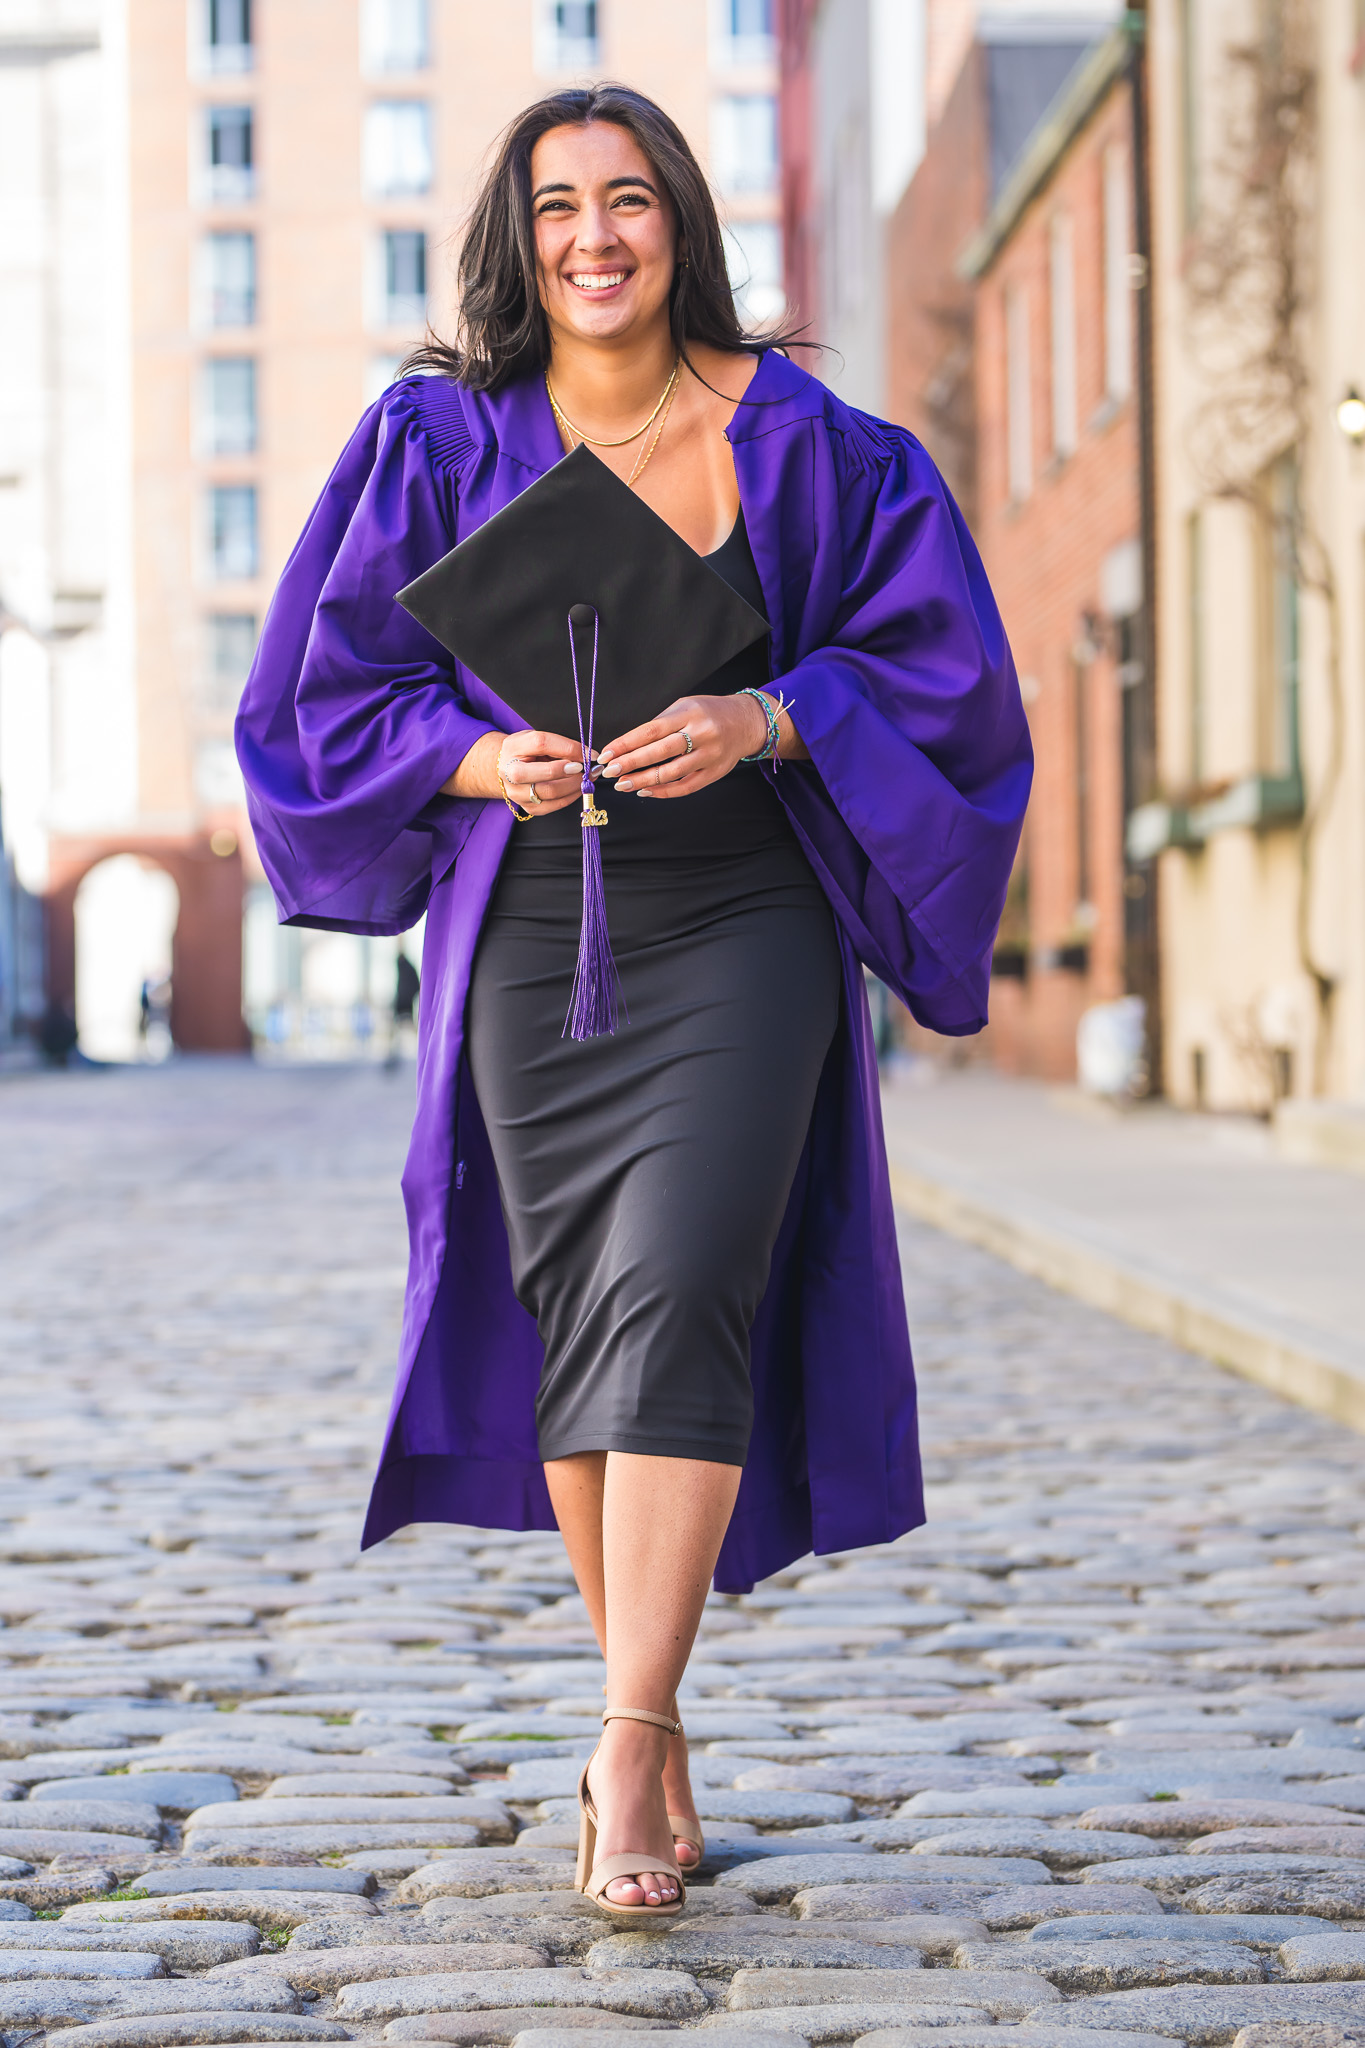
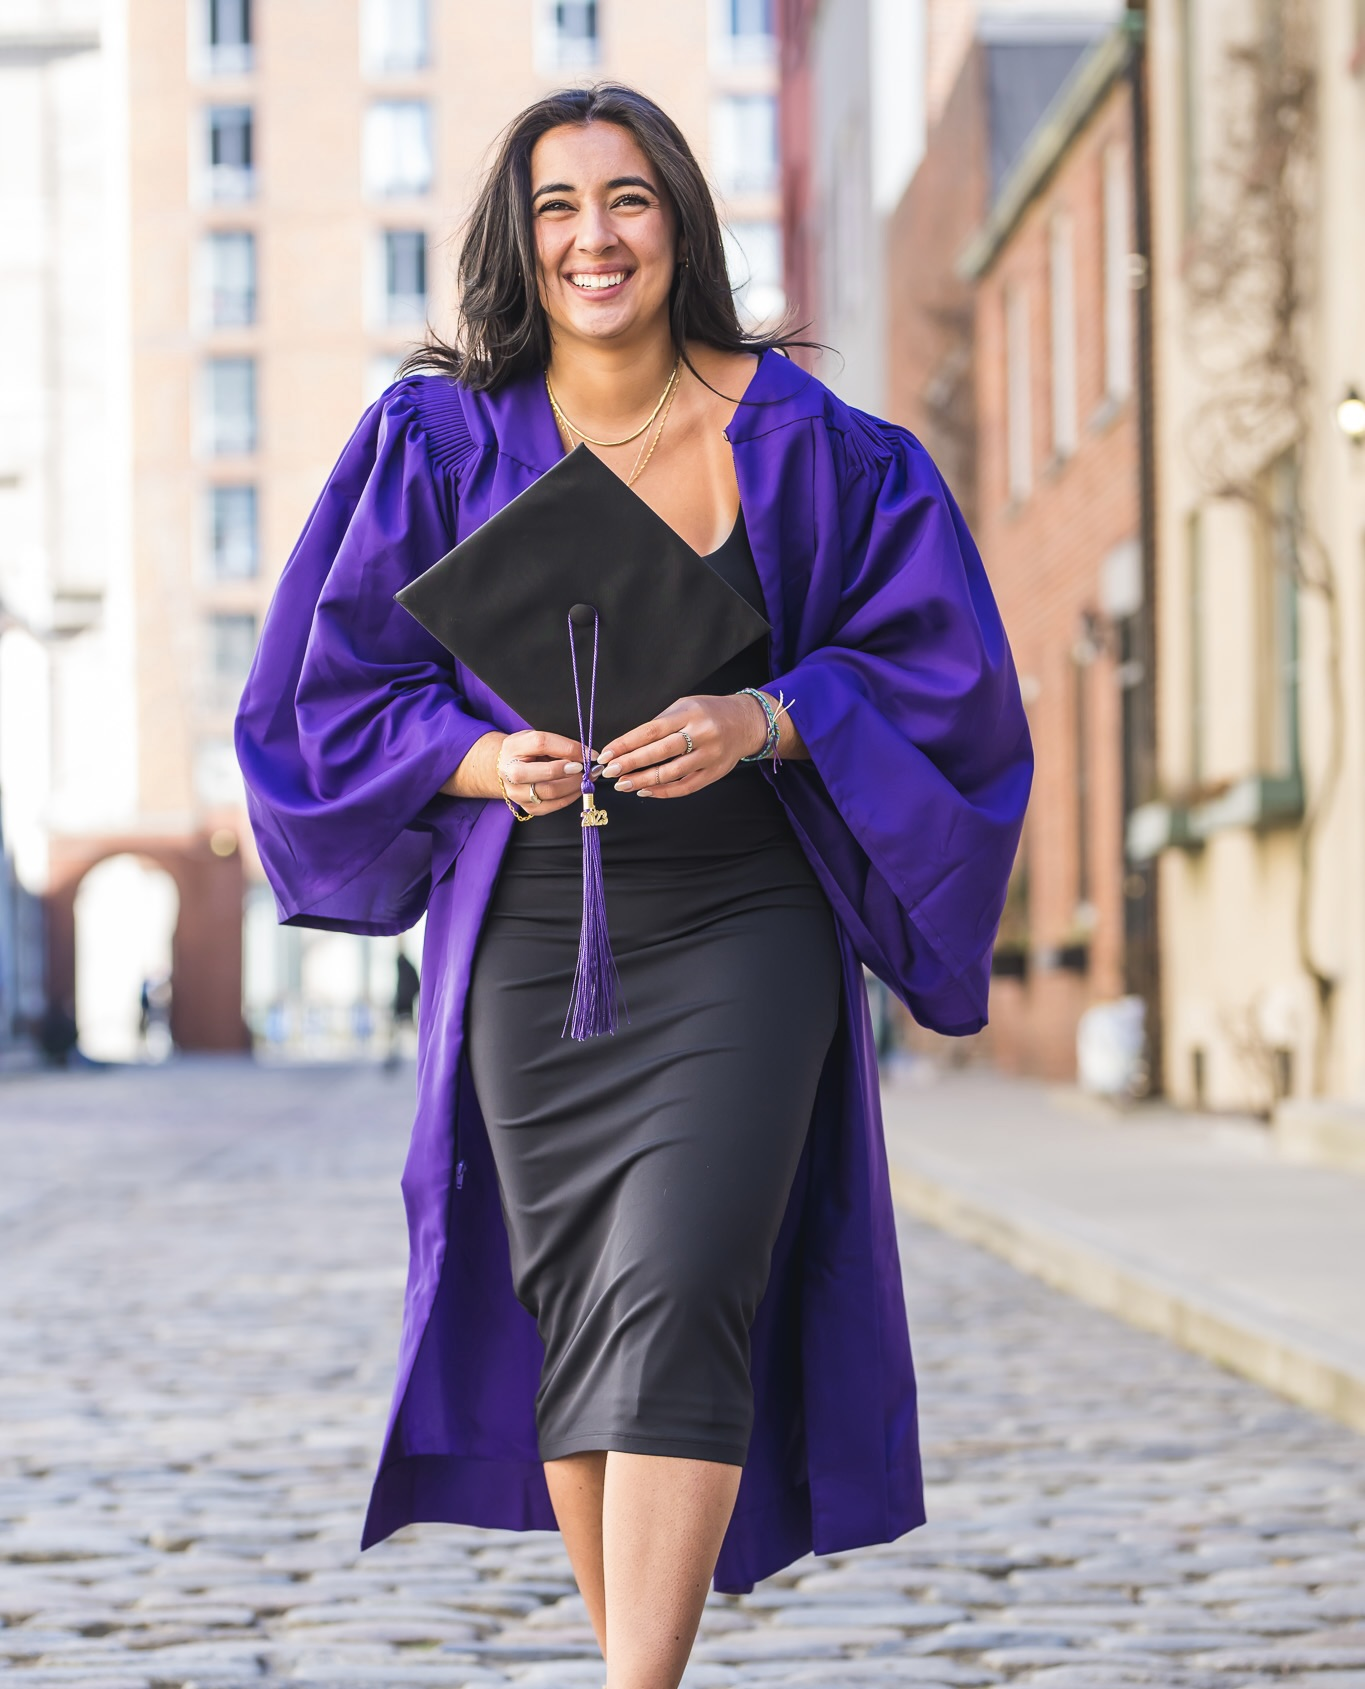
Image with text overlay

diff --git a/front-end/src/Pages/Main.js b/front-end/src/Pages/Main.js
@@ -1,17 +1,20 @@
 import React from "react";
 import Header from "../Components/Header";
 import "./Main.css";
-
+import mainImage from "../Images/mainImage.jpg";
 const MainPage = () => {
   return (
     <div>
       <div className="menu">
-        <Header style={{ color: "D9D2B6" }}/>
+        <Header style={{ color: "D9D2B6" }} />
       </div>
-      <div className="intro">
-        <div id="hello">HELLO, I'M</div>
-        <div id="first">ISABELLA</div>
-        <div id="last">MASIERO</div>
+      <div className="imgAndName">
+        <div className="intro">
+          <div id="hello">HELLO, I'M</div>
+          <div id="first">ISABELLA</div>
+          <div id="last">MASIERO</div>
+        </div>
+        <img id="gradPic" src={mainImage} alt="graduation"></img>
       </div>
     </div>
   );

diff --git a/front-end/src/Pages/Main.css b/front-end/src/Pages/Main.css
@@ -15,14 +15,26 @@ body {
   flex-direction: column;
   margin-top: 10%;
   align-items: flex-start;
+  z-index: 1;
 }
 
-#hello{
-    margin-left: 15%;
+#gradPic{
+    width: 35%;
+    height: 15%;
+    margin-top: 3%;
+    margin-left: 1%;
+    z-index: 0;
 }
+
+.imgAndName{
+    display: flex;
+    flex-direction: row;
+    margin-left: 10%;
+}
+
 #first{
     margin-left: 30%;
 }
 #last{
-    margin-left: 40%;
+    margin-left: 50%;
 }

diff --git a/front-end/src/Components/Header.css b/front-end/src/Components/Header.css
@@ -2,6 +2,8 @@
   display: flex;
   flex-direction: row;
   justify-content: space-between;
+  margin-left: 2%;
+  margin-right: 2%;
 }
 .pageLinks{
     display: flex;
